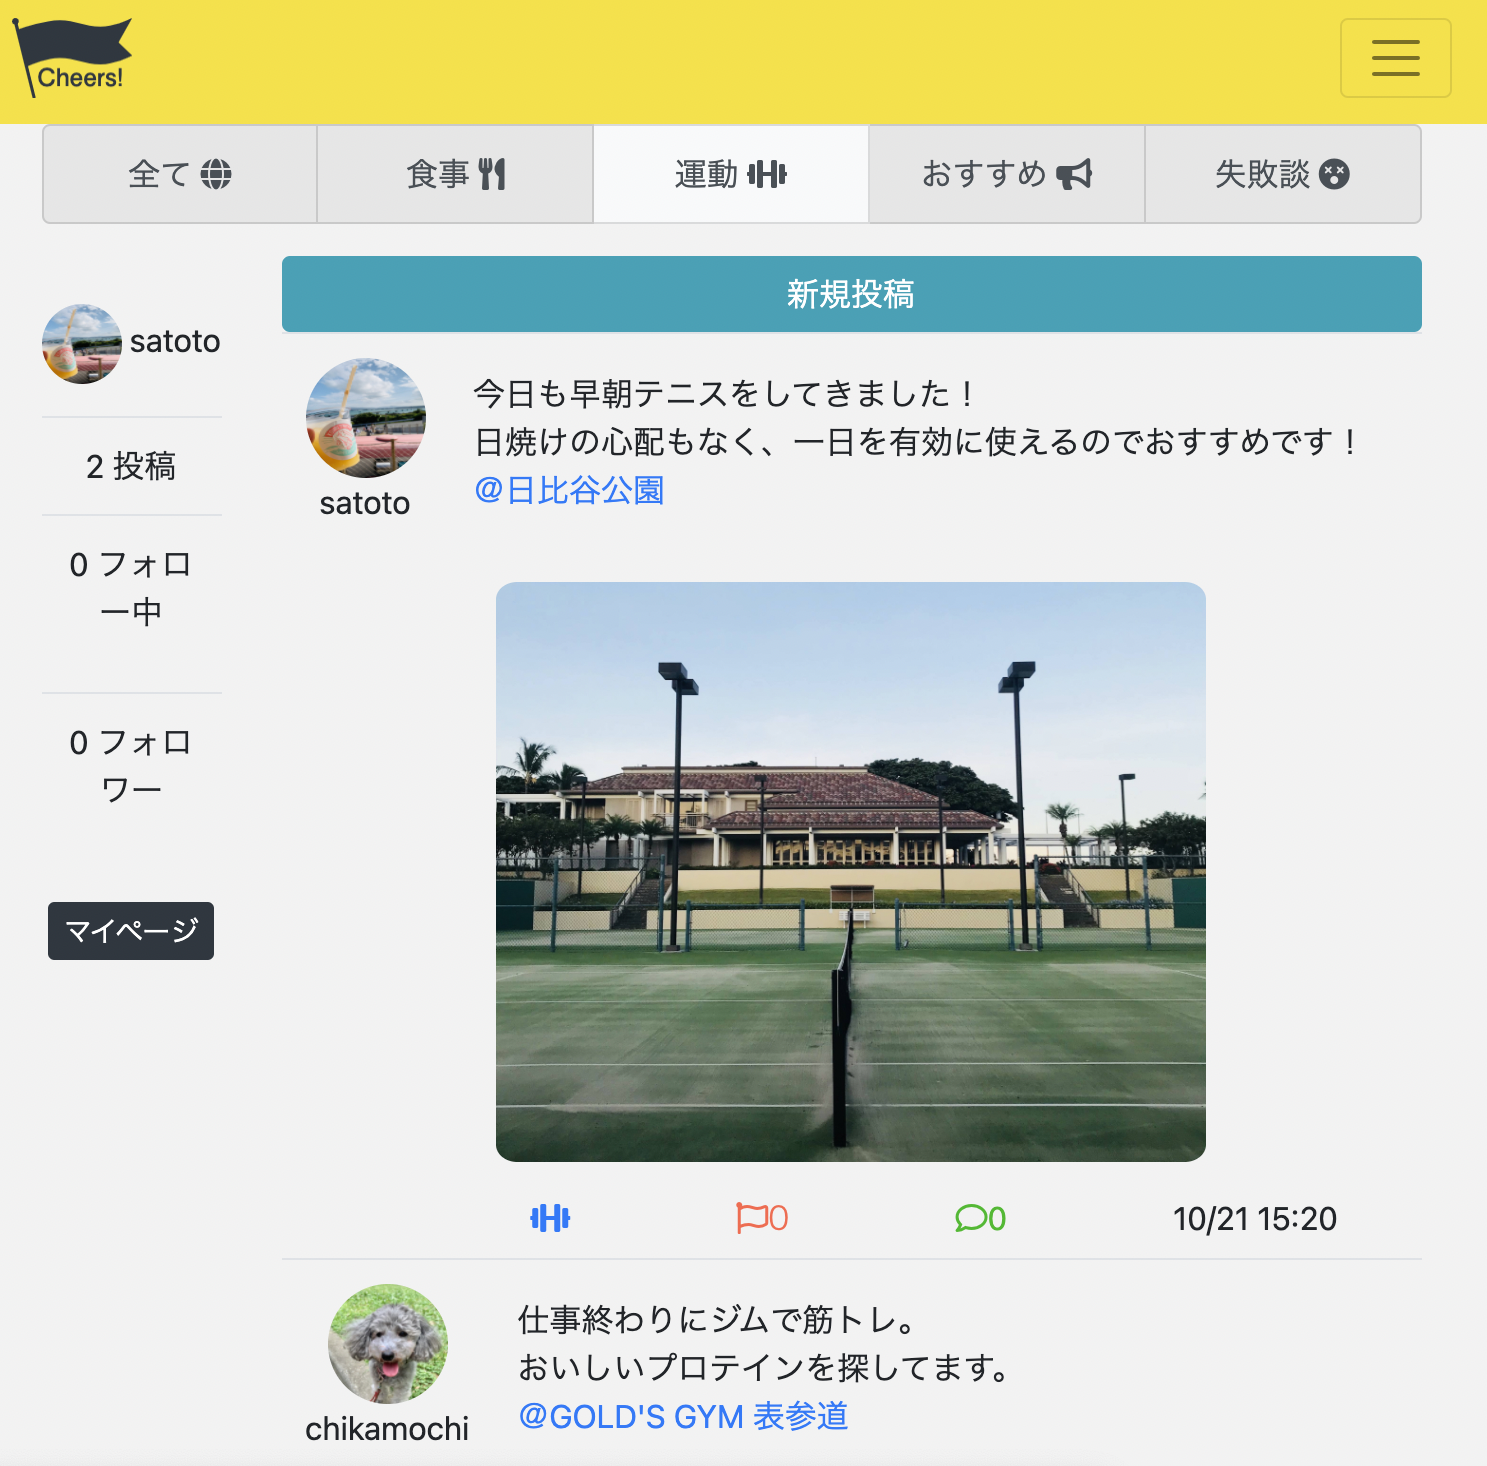
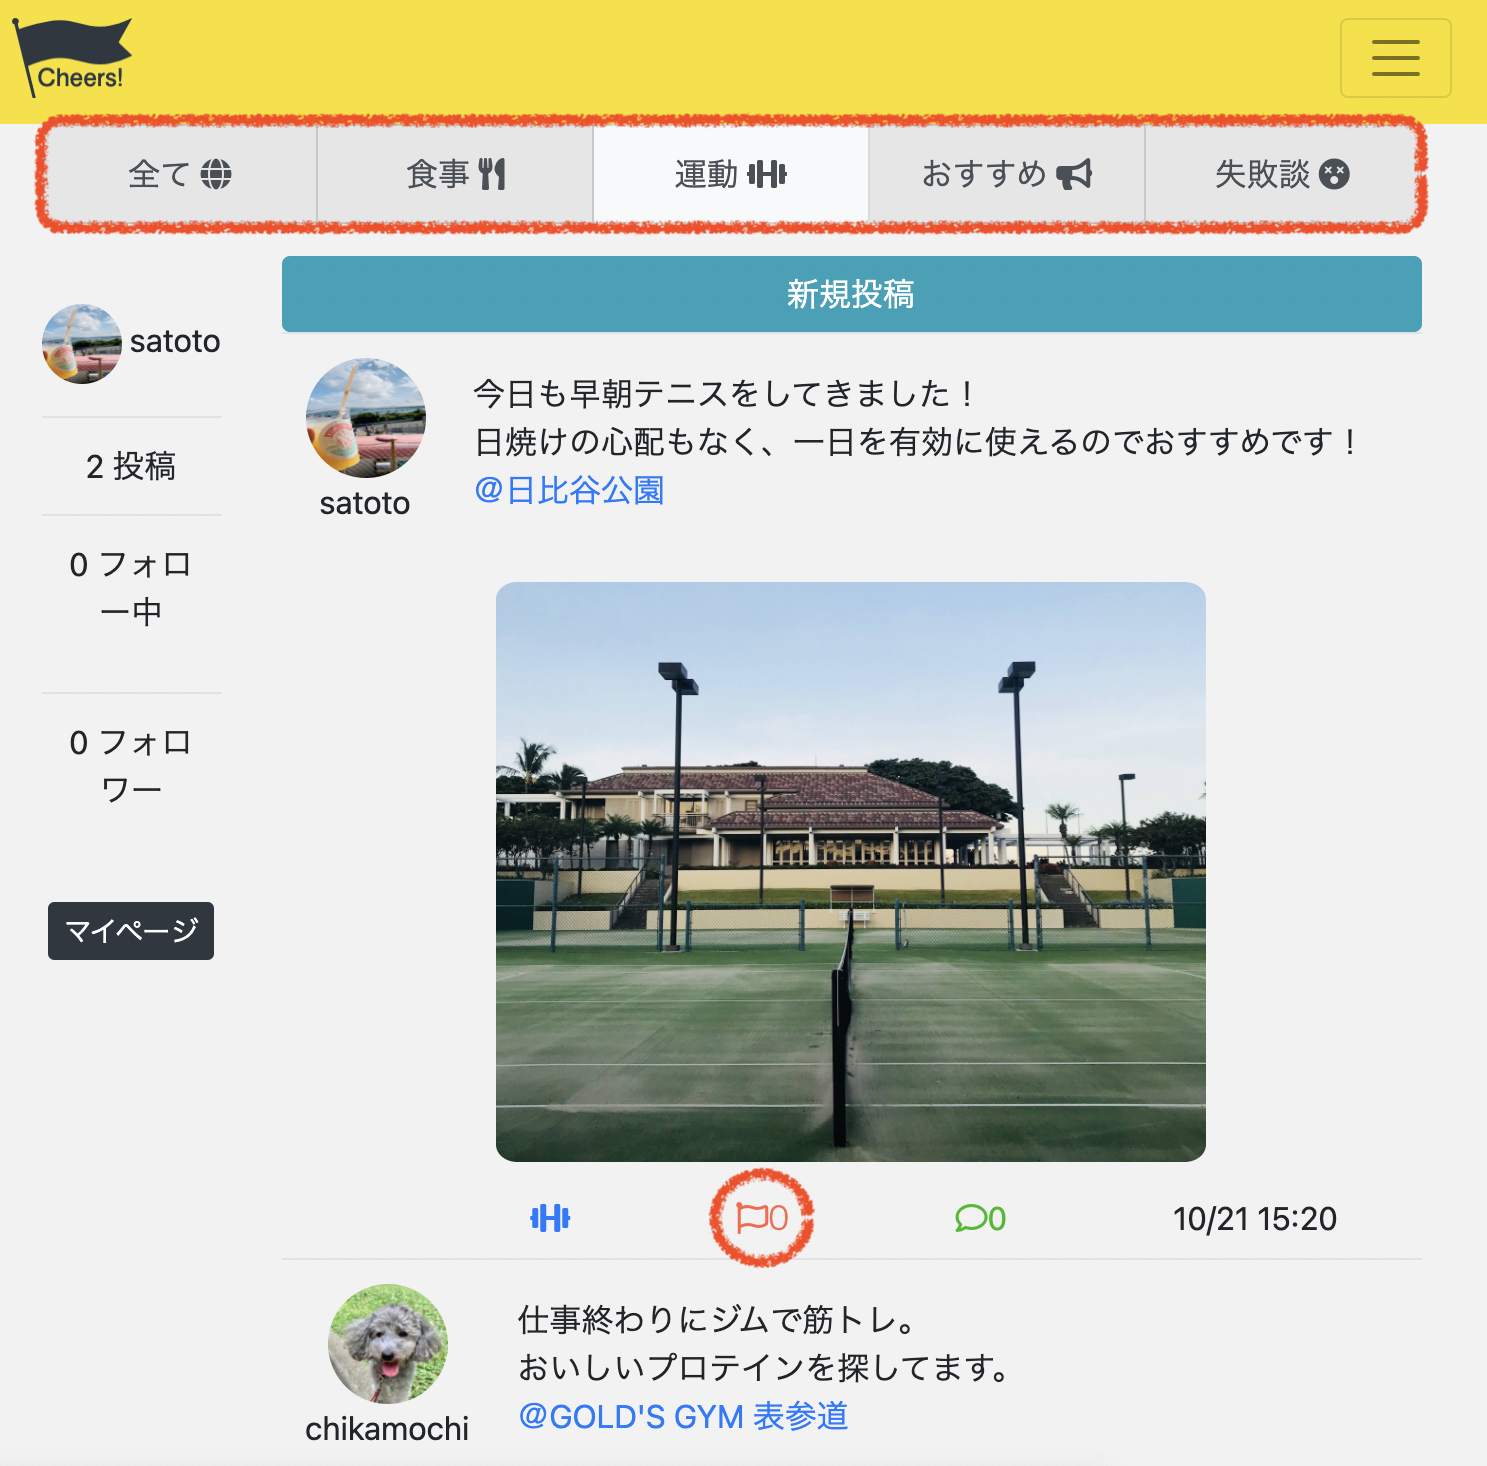
トップページの画像差し替え、戻るボタン修正

Changed region(s): [[0.0, 0.0614, 0.959, 0.1842], [0.464, 0.7981, 0.5568, 0.8902]]

diff --git a/config/environments/production.rb b/config/environments/production.rb
@@ -28,7 +28,7 @@ Rails.application.configure do
 
   # Do not fallback to assets pipeline if a precompiled asset is missed.
   config.assets.compile = false
-
+a
   # `config.assets.precompile` and `config.assets.version` have moved to config/initializers/assets.rb
 
   # Enable serving of images, stylesheets, and JavaScripts from an asset server.

diff --git a/config/routes.rb b/config/routes.rb
@@ -1,7 +1,6 @@
 Rails.application.routes.draw do
   devise_for :users
   root to: "homes#top"
-  get "/about" => "homes#about"
   resources :users do
     member do
       get "leave_page"

diff --git a/app/controllers/homes_controller.rb b/app/controllers/homes_controller.rb
@@ -1,7 +1,4 @@
 class HomesController < ApplicationController
   def top
   end
-
-  def about
-  end
 end
